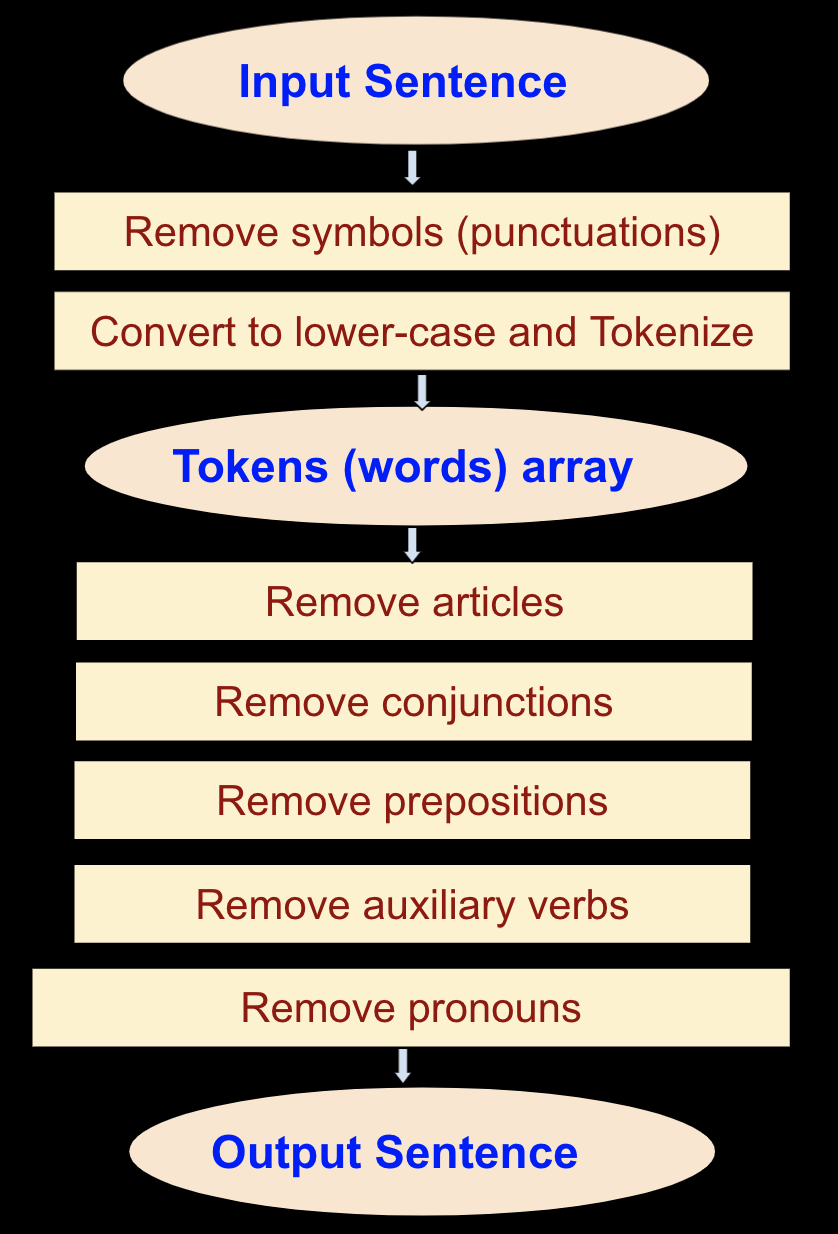
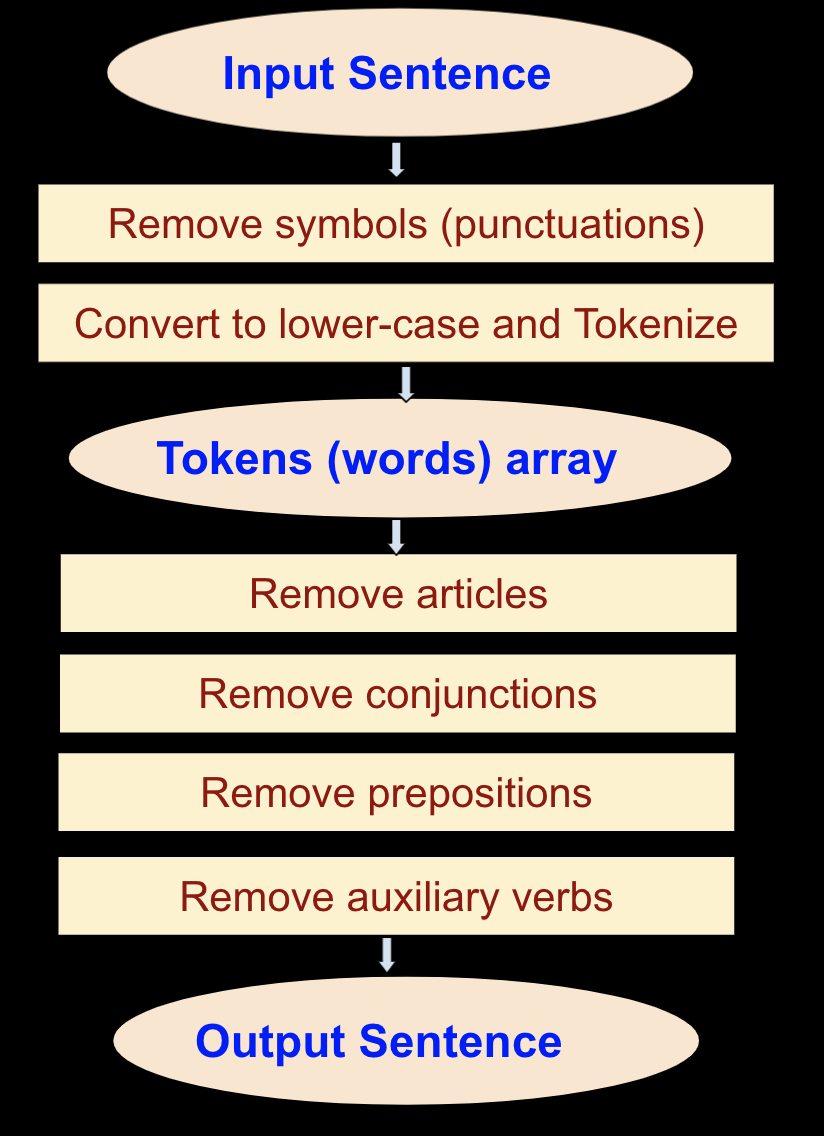
Removed Pronoun filter from pre-processing

diff --git a/index.html b/index.html
@@ -354,59 +354,58 @@
                     'can'
                 ]
                 
-                let pronouns = [
-                    'I',
-                    'you',
-                    'my',
-                    'mine',
-                    'myself',
-                    'we',
-                    'us',
-                    'our',
-                    'ours',
-                    'ourselves',
-                    'you',
-                    'you',
-                    'your',
-                    'yours',
-                    'yourself',
-                    'you',
-                    'you',
-                    'your',
-                    'your',
-                    'yourselves',
-                    'he',
-                    'him',
-                    'his',
-                    'his',
-                    'himself',
-                    'she',
-                    'her',
-                    'her',
-                    'her',
-                    'herself',
-                    'it',
-                    'it',
-                    'its',
-                    'itself',
-                    'they',
-                    'them',
-                    'their',
-                    'theirs',
-                    'themself',
-                    'they',
-                    'them',
-                    'their',
-                    'theirs',
-                    'themselves'
-                ]
+                // let pronouns = [
+                //     'I',
+                //     'you',
+                //     'my',
+                //     'mine',
+                //     'myself',
+                //     'we',
+                //     'us',
+                //     'our',
+                //     'ours',
+                //     'ourselves',
+                //     'you',
+                //     'you',
+                //     'your',
+                //     'yours',
+                //     'yourself',
+                //     'you',
+                //     'you',
+                //     'your',
+                //     'your',
+                //     'yourselves',
+                //     'he',
+                //     'him',
+                //     'his',
+                //     'his',
+                //     'himself',
+                //     'she',
+                //     'her',
+                //     'her',
+                //     'her',
+                //     'herself',
+                //     'it',
+                //     'it',
+                //     'its',
+                //     'itself',
+                //     'they',
+                //     'them',
+                //     'their',
+                //     'theirs',
+                //     'themself',
+                //     'they',
+                //     'them',
+                //     'their',
+                //     'theirs',
+                //     'themselves'
+                // ]
 
                 let filteredTokens = tokens.filter(tokenItem => !(
                     articles.includes(tokenItem) ||
                     conjunctions.includes(tokenItem) ||
                     prepositions.includes(tokenItem) ||
-                    auxiliaryVerbs.includes(tokenItem) ||
-                    pronouns.includes(tokenItem)
+                    auxiliaryVerbs.includes(tokenItem)
                     ))
 
                 // console.log('filteredTokens -> ',filteredTokens)
